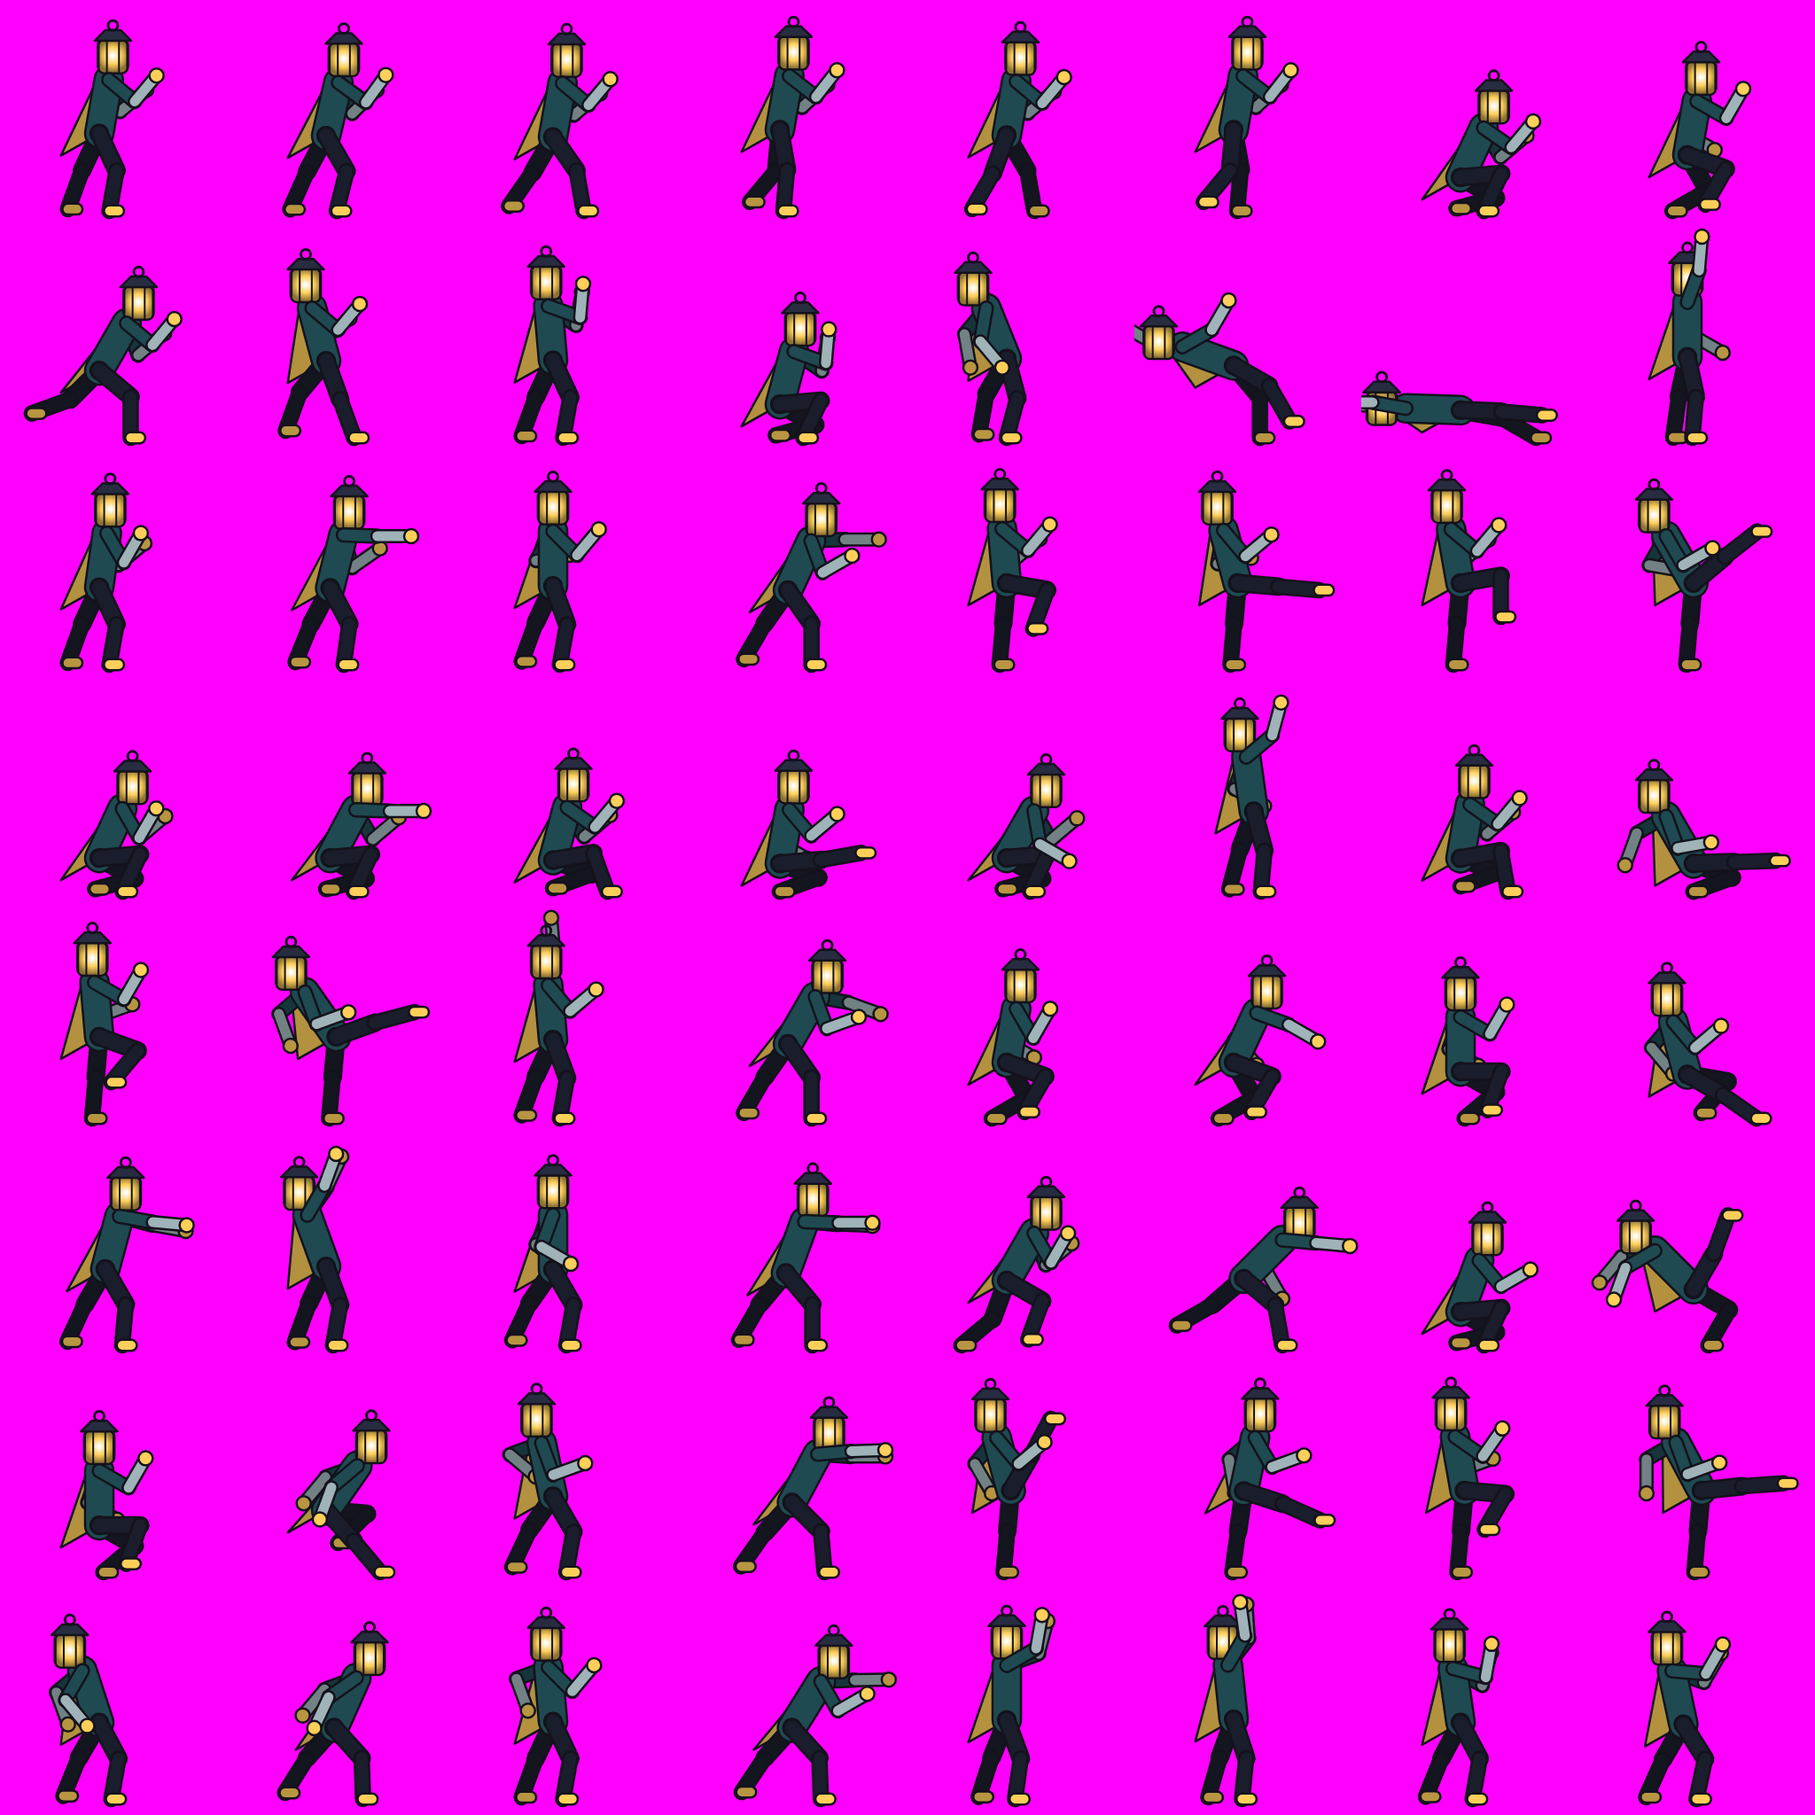
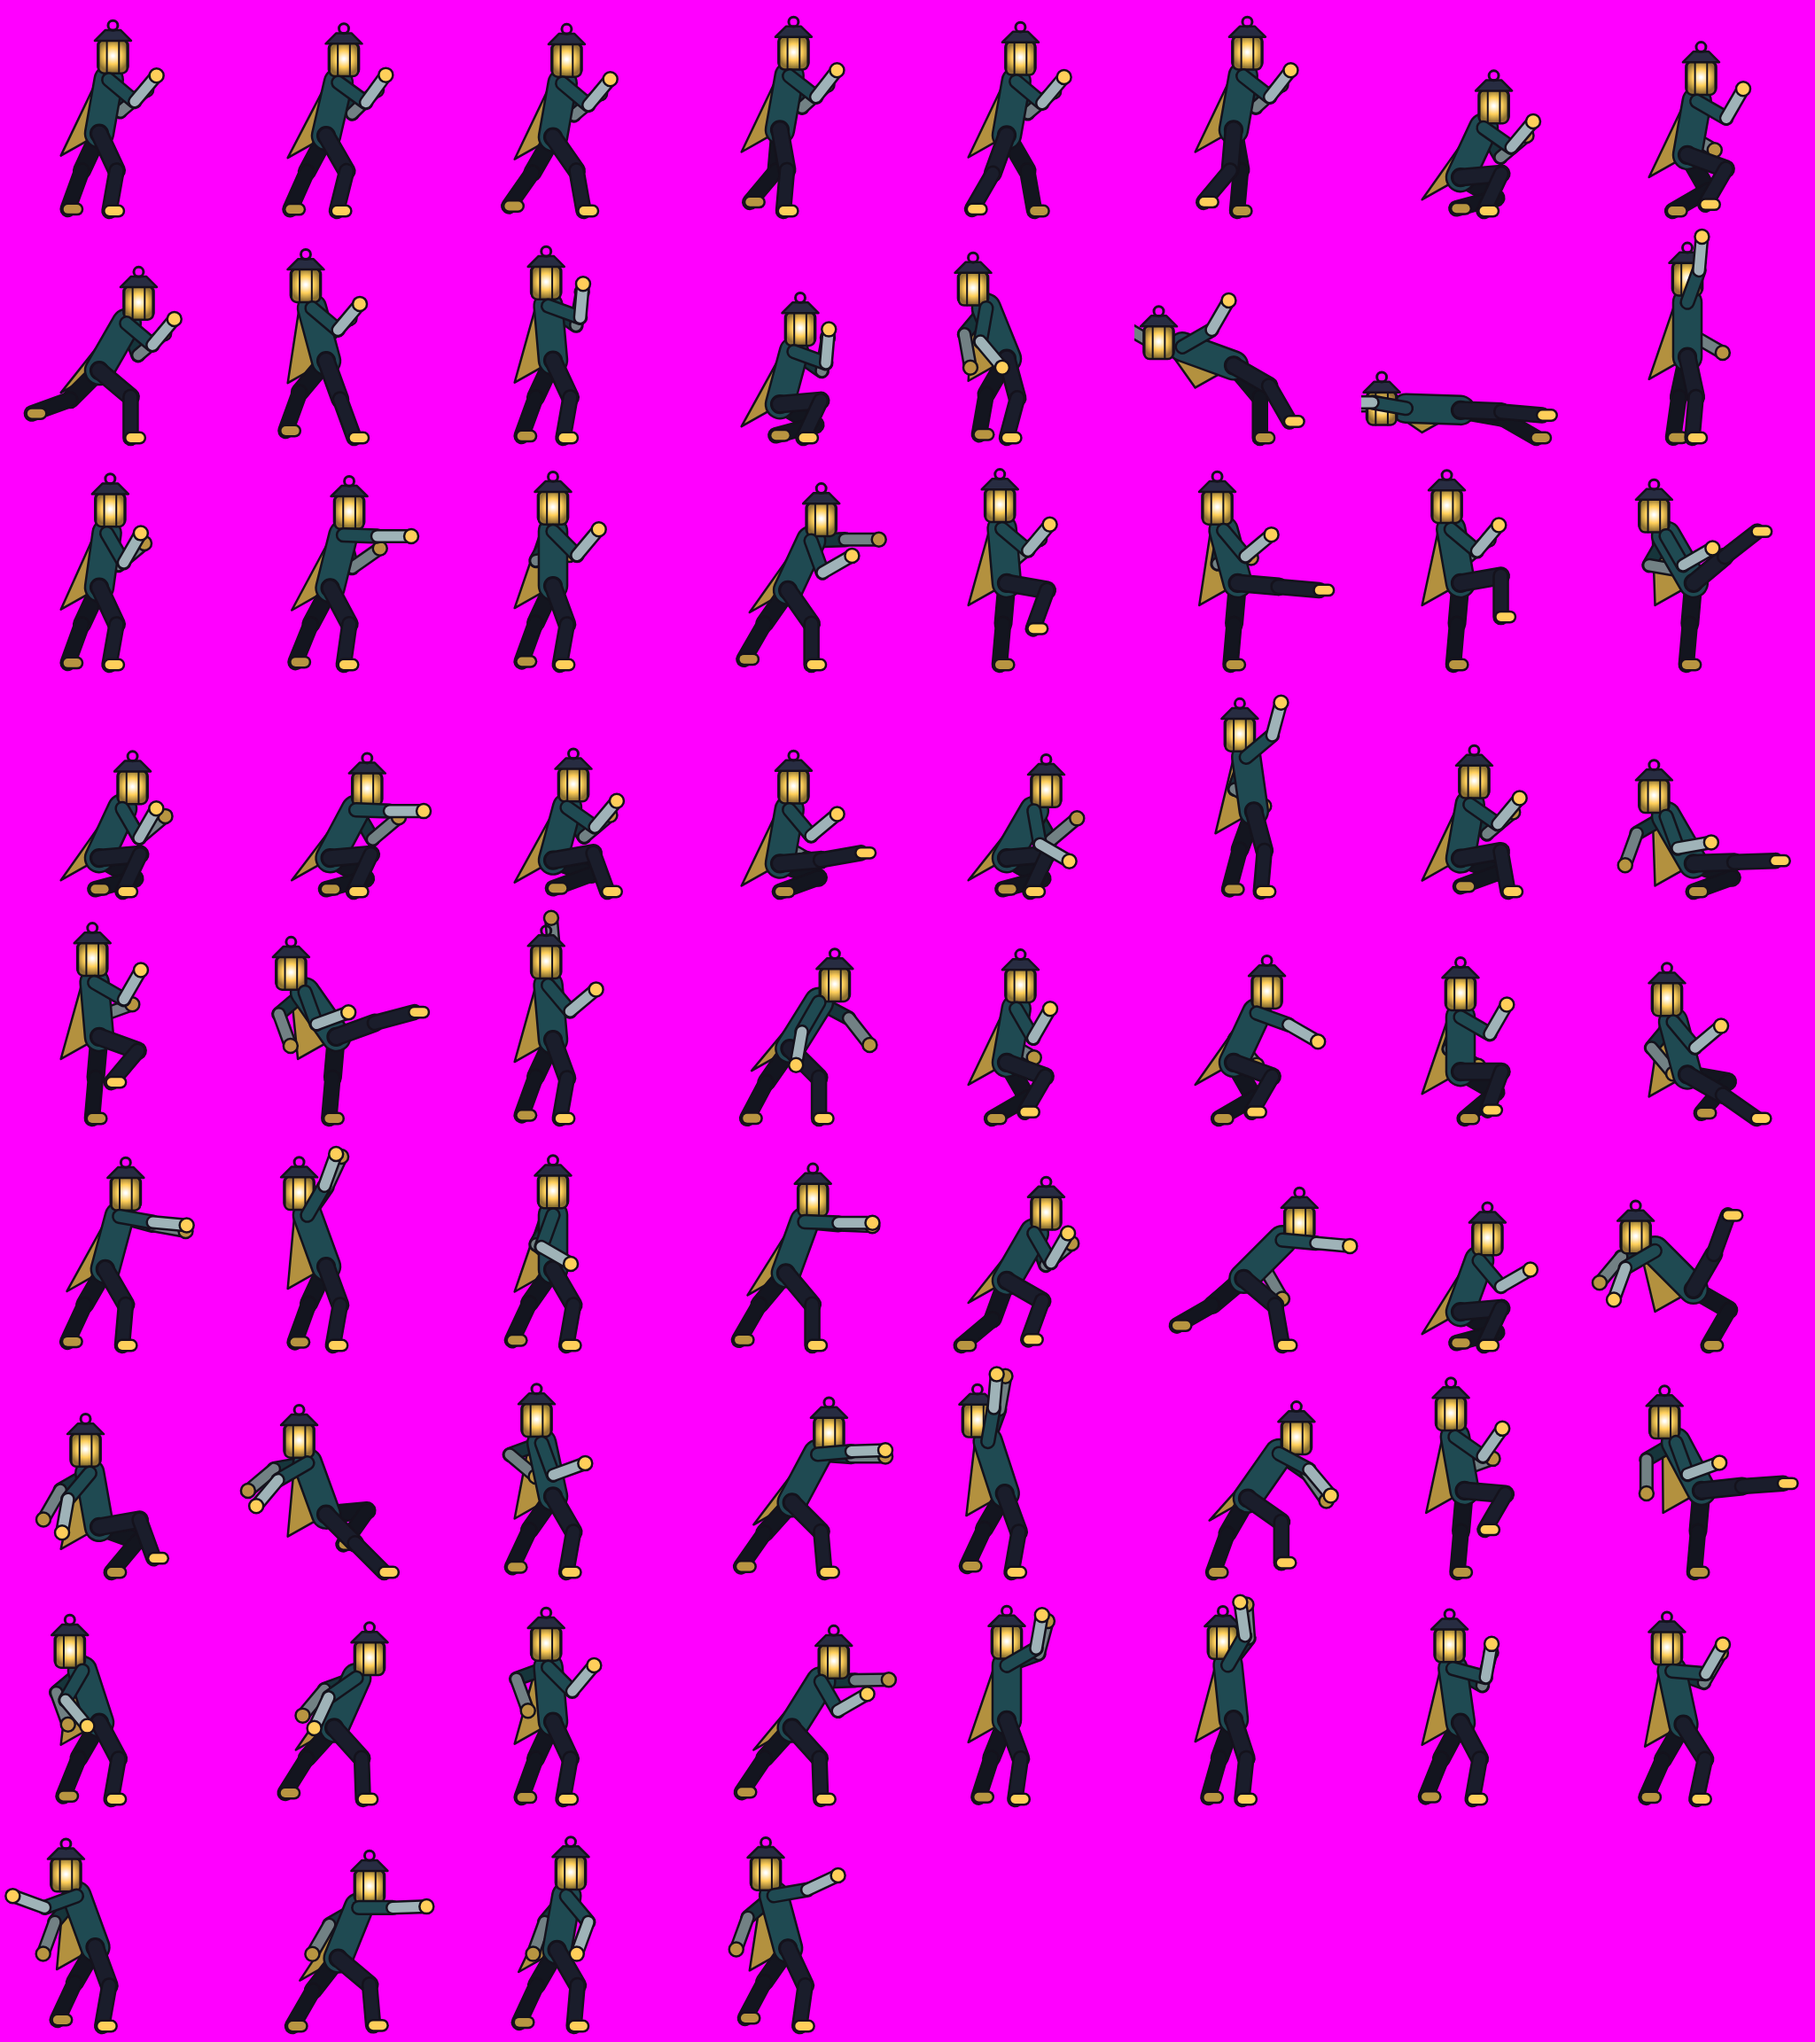
Faro: poses that match their moves, ready for the repaint
Lamp Swing and Backswing get their own arm-swing poses and hit with the
arm instead of the leg. Last Bell is a two-handed overhead slam, Bell
Hammer and Air Spike end in a downward slam, and Plumb Line is a real
dive kick. The pose sheet in art/ is re-exported (unchanged cells are
pixel-identical to the old export). Frames whose pose has no painted
cell yet fall back to the rig instead of drawing nothing, and a fighter
that overrides a shared pose no longer gets a duplicate sheet cell.

diff --git a/render.ts b/render.ts
@@ -172,8 +172,11 @@ function drawFighter(c: CanvasRenderingContext2D, f: Fighter, shown: Pose, sheet
   if (f.st === 'atk' && m?.teleport) c.globalAlpha = f.t < m.teleport.at ? 1 - f.t / m.teleport.at : Math.min(1, (f.t - m.teleport.at) / 6)
   if (f.buff) { c.shadowColor = f.buff.color; c.shadowBlur = 14 + Math.sin(tick / 4) * 6 }
   if (f.st === 'atk' && f.charge && m?.charge) { const k = f.charge / m.charge.max; c.shadowColor = k >= 1 ? '#ffffff' : '#ffd23f'; c.shadowBlur = 6 + 26 * k + (k >= 1 ? Math.sin(tick) * 6 : 0) } // charging glows, full charge flickers
+  const lkS = sheet && spriteLook(f), keysS = sheet && compileKeys(f.def)
+  // a pose added after the sheet was painted has no cell yet: draw the rig for those frames
+  if (sheet && lkS!.layers.some(l => l.alpha > 0 && keysS!.indexOf(l.key) >= COLS * Math.floor(sheet!.naturalHeight / CELL))) sheet = undefined
   if (sheet) {
-    const lk = spriteLook(f), keys = compileKeys(f.def), mid = 100 * f.def.look.height, a0 = c.globalAlpha
+    const lk = lkS!, keys = keysS!, mid = 100 * f.def.look.height, a0 = c.globalAlpha
     c.translate(f.x + lk.dx, gy + lk.dy); c.scale(f.face, 1)
     c.translate(0, -mid); c.rotate(lk.rot); c.translate(0, mid); c.scale(lk.sx, lk.sy) // tilt around the middle, squash from the feet
     for (const l of lk.layers) {

diff --git a/kit.ts b/kit.ts
@@ -234,5 +234,5 @@ export function compile(d: FighterDef) {
   for (const s of d.strings) for (const id of s) if (!moves[id]) problems.push(`string "${s.join(' ')}" uses unknown move "${id}"`)
   // most specific input wins: motions, then chords, then direction+button, then a bare button
   const prio = (m: Move) => (m.motion?.length ?? 0) * 10 + (m.chord ? 5 : 0) + (m.dir ? 2 : 0)
-  return { moves, poses, problems, order: Object.values(moves).sort((a, b) => prio(b) - prio(a)), sheetKeys: [...POSE_KEYS, ...Object.keys(d.poses ?? {})] }
+  return { moves, poses, problems, order: Object.values(moves).sort((a, b) => prio(b) - prio(a)), sheetKeys: [...new Set([...POSE_KEYS, ...Object.keys(d.poses ?? {})])] }
 }
